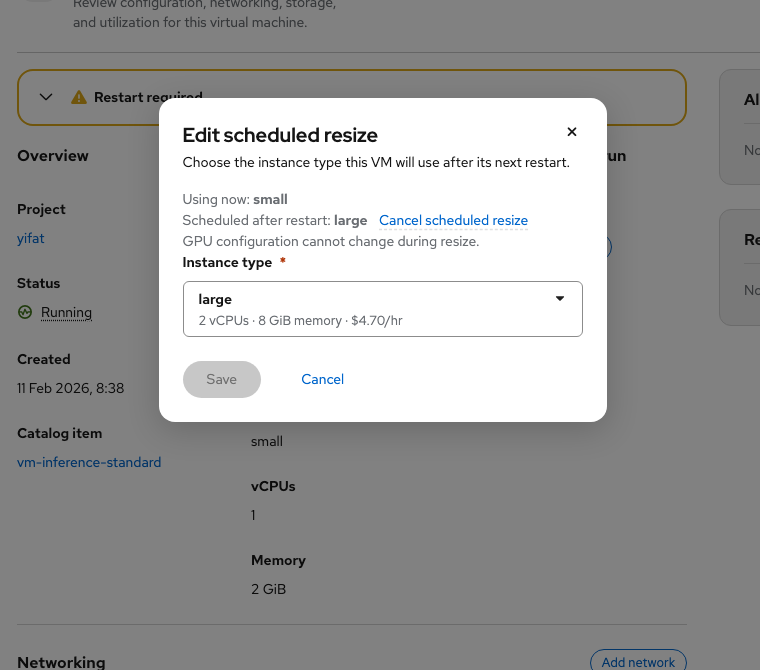
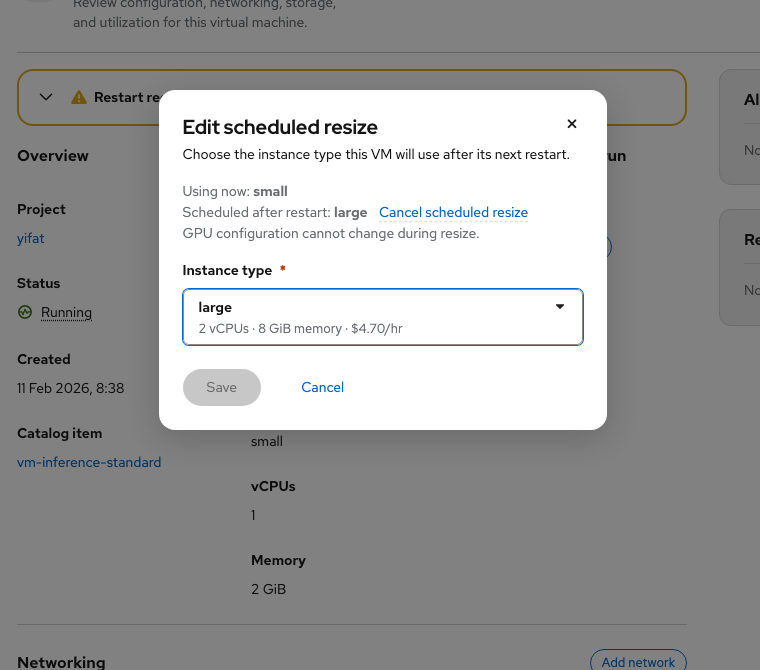
OSAC-7158: space GPU note from instance type field
Assisted-by: Cursor <cursoragent@cursor.com>

Changed region(s): [[0.2118, 0.1791, 0.7868, 0.6567], [0.2118, 0.1194, 0.7868, 0.1493], [0.3934, 0.5373, 0.4539, 0.597]]

diff --git a/apps/app-frontend/public/vmaas-ux-prototype.html b/apps/app-frontend/public/vmaas-ux-prototype.html
@@ -9672,7 +9672,7 @@
           ${submitErrorAlert}
           ${resizeAlert}
           ${m.pendingResize ? `<p class="muted">Using now: <strong>${richSelectEsc(m.activeId)}</strong><br>Scheduled after restart: <strong>${richSelectEsc(m.initialId)}</strong> <button type="button" class="pf-v6-c-button pf-m-link pf-m-inline pf-v6-u-ml-sm" id="compute-modal-cancel-resize">Cancel scheduled resize</button></p>` : ''}
-          <p class="muted">${requireGpu ? `GPU configuration: ${richSelectEsc(vmResizeGpuSummary(m.initialId))}. ` : ''}GPU configuration cannot change during resize.</p>
+          <p class="muted pf-v6-u-mb-md">${requireGpu ? `GPU configuration: ${richSelectEsc(vmResizeGpuSummary(m.initialId))}. ` : ''}GPU configuration cannot change during resize.</p>
           <div class="form-field">
           <label id="f-edit-compute-resource-label">Instance type <span class="req">*</span></label>
           <div class="rich-select rich-select--typeahead ${m.menuOpen ? 'pf-m-expanded' : ''}" id="edit-compute-select">
